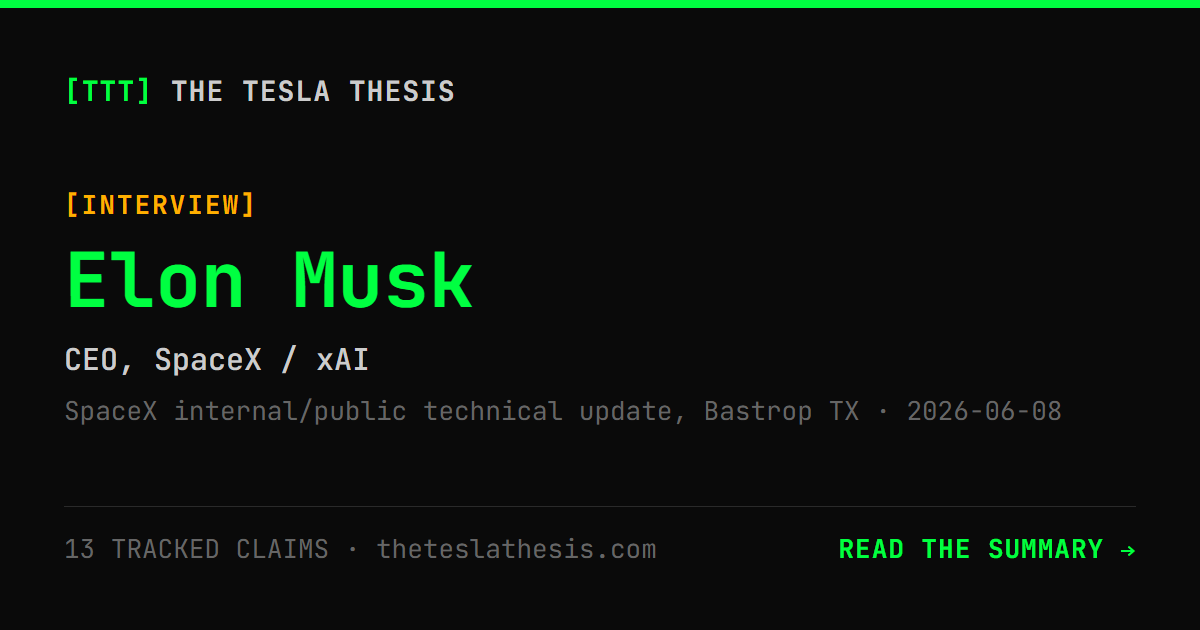
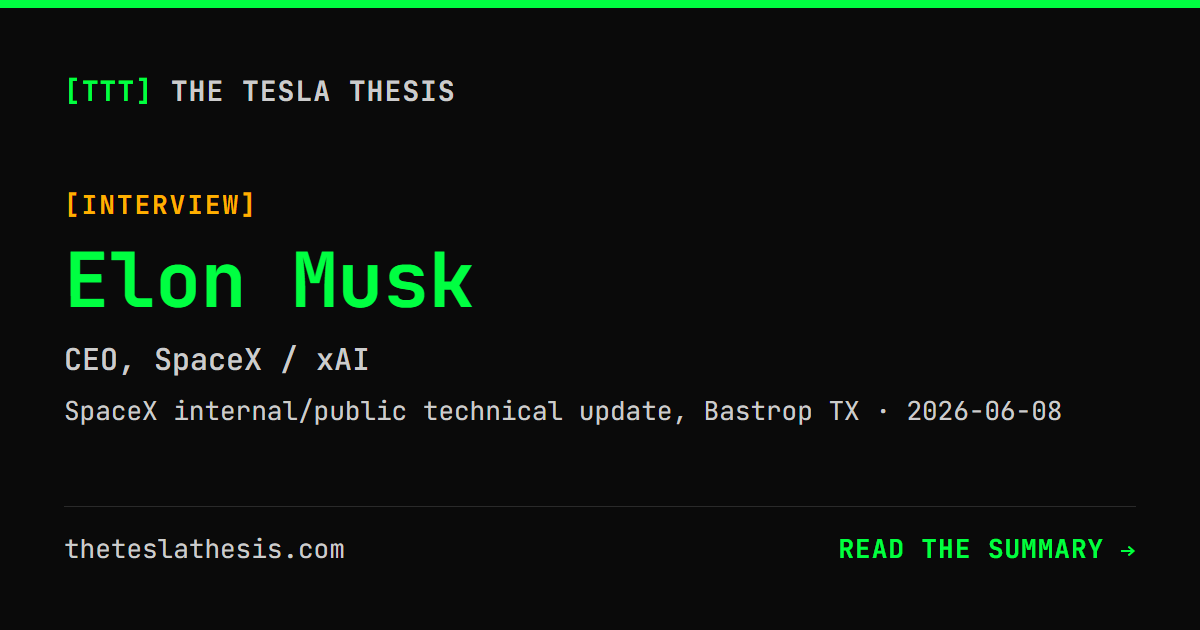
interviews: OG card — drop claims count, lighten secondary text
- Remove "N TRACKED CLAIMS" from the card (not meaningful to an
  external reader); footer left is now just the domain.
- Lighten the secondary text (venue·date + domain) from #666 to #999
  — the darker grey was barely legible, especially downscaled in feeds.

Changed region(s): [[0.0308, 0.8444, 0.555, 0.9048], [0.0308, 0.6333, 0.555, 0.6937], [0.5858, 0.6333, 0.8942, 0.6635]]

diff --git a/scripts/build-og-images.js b/scripts/build-og-images.js
@@ -50,7 +50,6 @@ function cardHtml(iv) {
   const { name, role } = splitPerson(iv.person);
   const venue = venueShort(iv.venue);
   const meta = [venue, iv.date && iv.date !== 'unknown' ? iv.date : null].filter(Boolean).join(' · ');
-  const claims = iv.claims?.length ? `${iv.claims.length} TRACKED CLAIM${iv.claims.length === 1 ? '' : 'S'}` : '';
 
   return `<!doctype html><html><head><meta charset="utf-8">
 <link rel="preconnect" href="https://fonts.gstatic.com" crossorigin>
@@ -71,9 +70,9 @@ function cardHtml(iv) {
   .tag { color: ${C.amber}; font-size: 26px; font-weight: 700; letter-spacing: 2px; margin-bottom: 18px; }
   .person { color: ${C.green}; font-size: 76px; font-weight: 700; line-height: 1.05; }
   .role { color: ${C.textBright}; font-size: 30px; font-weight: 500; margin-top: 20px; }
-  .meta { color: ${C.textDim}; font-size: 26px; margin-top: 14px; }
+  .meta { color: ${C.text}; font-size: 26px; margin-top: 14px; }
   .foot { display: flex; justify-content: space-between; align-items: baseline; border-top: 1px solid ${C.border}; padding-top: 24px; }
-  .foot .claims { color: ${C.textDim}; font-size: 26px; }
+  .foot .site { color: ${C.text}; font-size: 26px; }
   .foot .cta { color: ${C.green}; font-size: 26px; font-weight: 700; letter-spacing: 1px; }
 </style></head>
 <body>
@@ -85,7 +84,7 @@ function cardHtml(iv) {
     <div class="meta">${esc(meta)}</div>
   </div>
   <div class="foot">
-    <span class="claims">${esc([claims, 'theteslathesis.com'].filter(Boolean).join('  ·  '))}</span>
+    <span class="site">theteslathesis.com</span>
     <span class="cta">READ THE SUMMARY →</span>
   </div>
 </body></html>`;
